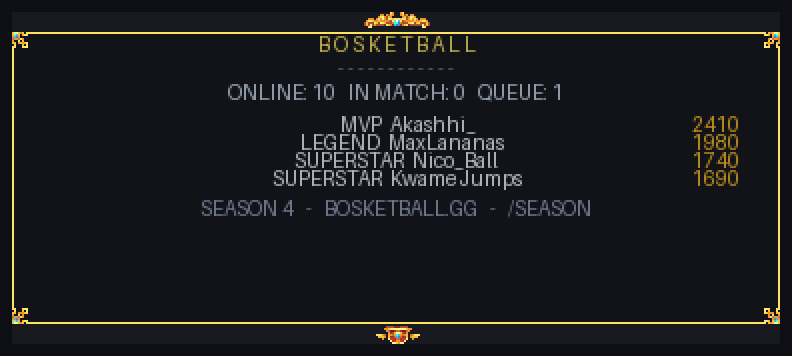
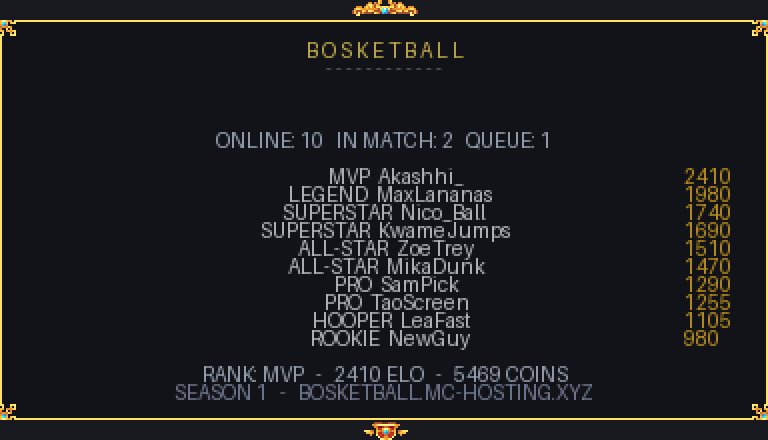
Round 28: tablist preview follows the real 9 px line grid

Changed region(s): [[0.0, 0.0, 1.0, 1.0]]

diff --git a/tools/preview_tablist.py b/tools/preview_tablist.py
@@ -1,11 +1,17 @@
 #!/usr/bin/env python3
-"""Render the tab list backdrop so it can be reviewed without launching the game.
+"""Preview of the in-game tab list, drawn from the same geometry the plugin uses.
 
-The frame comes from the owner's `tablist.zip` (nine-sliced by `tools/tablist_frame.py`); the rows
-below are a mock of what the plugin writes: one glyph line for the frame, then the header block,
-the player rows and the footer, all centred like the client centres them.
+Round 28: the frame is generated per player count (139 px for one row, +9 px per row). This preview
+lays the header, the rows and the footer on the client's 9 px line grid so the picture shows exactly
+how tight the gold frame is around the content:
 
-    python3 tools/preview_tablist.py        # docs/previews/tablist.png
+    line 1        frame glyph (nothing else)
+    lines 2..6    BOSKETBALL logo strip
+    line 8        ONLINE / IN MATCH / QUEUE counters
+    line 10 + i   player row i (one 9 px line each)
+    then          footer: rank line + season/site line
+
+    python3 tools/preview_tablist.py
 """
 
 from __future__ import annotations
@@ -18,9 +24,9 @@ ROOT = Path(__file__).resolve().parent.parent
 FONT_DIR = ROOT / "resourcepack/assets/bosketball/textures/font"
 OUT = ROOT / "docs/previews/tablist.png"
 SCALE = 2
-ROWS = 4
-# Round 28: the frame is generated per player count, so the preview uses the real 4-row one.
-FRAME = FONT_DIR / "tab_frame_r04.png"
+ROWS = 10
+LINE = 9
+FRAME = FONT_DIR / f"tab_frame_r{ROWS:02d}.png"
 NAMES = [
     ("MVP", "Akashhi_", "2410"),
     ("LEGEND", "MaxLananas", "1980"),
@@ -34,11 +40,17 @@ NAMES = [
     ("ROOKIE", "NewGuy", "980"),
 ]
 
+# content anchors, in client pixels, relative to the top of the frame glyph
+LOGO_LINE = 2          # first logo strip line
+COUNTERS_LINE = 7      # 0-based line index -> 8th line
+FIRST_ROW_LINE = 9     # 0-based -> 10th line (measured on the owner's screenshot)
+
 
 def main() -> int:
     frame = Image.open(FRAME).convert("RGBA")
     w, h = frame.size
-    canvas = Image.new("RGBA", (w, h), (24, 26, 32, 255))
+    canvas = Image.new("RGBA", (w * SCALE, h * SCALE), (24, 26, 32, 255))
+    canvas = canvas.resize((w, h), Image.NEAREST)
     d = ImageDraw.Draw(canvas)
     try:
         font = ImageFont.load_default()
@@ -51,34 +63,28 @@ def main() -> int:
         tw = d.textlength(text, font=font)
         d.text(((w - tw) / 2, y), text, fill=fill, font=font)
 
-    # the client draws the header first: frame line, logo block, then the live counters
-    y = 10
-    centered("B O S K E T B A L L", y, (255, 226, 97))
-    y += 12
-    centered("- - - - - - - - - - - -", y, (120, 132, 158))
-    y += 12
-    centered("ONLINE: 10   IN MATCH: 0   QUEUE: 1", y, (200, 214, 235))
-    y += 16
+    def line_top(index: int) -> int:
+        return LINE * index + 1
 
-    for tag, name, elo in NAMES[:ROWS]:
-        left = tag.rjust(9)
-        centered(f"{left}  {name}", y, (240, 244, 252))
+    centered("B O S K E T B A L L", line_top(LOGO_LINE), (255, 226, 97))
+    centered("- - - - - - - - - - - -", line_top(LOGO_LINE + 1), (120, 132, 158))
+    centered("ONLINE: 10   IN MATCH: 2   QUEUE: 1", line_top(COUNTERS_LINE), (200, 214, 235))
+
+    for i, (tag, name, elo) in enumerate(NAMES[:ROWS]):
+        y = line_top(FIRST_ROW_LINE + i)
+        centered(f"{tag.rjust(9)}  {name}", y, (240, 244, 252))
         if font is not None:
-            d.text((w - 44, y), elo, fill=(251, 191, 36), font=font)
-        y += 9
+            d.text((w - 42, y), elo, fill=(251, 191, 36), font=font)
 
-    y += 6
-    centered("SEASON 4   -   BOSKETBALL.GG   -   /SEASON", y, (150, 160, 190))
+    footer_line = FIRST_ROW_LINE + ROWS + 1
+    centered("RANK: MVP   -   2410 ELO   -   5469 COINS", line_top(footer_line), (200, 214, 235))
+    centered("SEASON 1   -   BOSKETBALL.MC-HOSTING.XYZ", line_top(footer_line + 1), (150, 160, 190))
 
     # the client paints the header (and therefore our frame) AFTER the rows: composite it last so the
     # preview shows the same 25% backdrop over the names that players see
     canvas.alpha_composite(frame, (0, 0))
-
-    sheet = Image.new("RGBA", (w * SCALE + 24, h * SCALE + 24), (14, 15, 20, 255))
-    sheet.alpha_composite(canvas.resize((w * SCALE, h * SCALE), Image.NEAREST), (12, 12))
-    OUT.parent.mkdir(parents=True, exist_ok=True)
-    sheet.save(OUT)
-    print("tablist ->", OUT.relative_to(ROOT), sheet.size)
+    canvas.resize((w * SCALE, h * SCALE), Image.NEAREST).save(OUT)
+    print(f"tablist -> {OUT.relative_to(ROOT)} ({w * SCALE}, {h * SCALE})  frame {w}x{h} for {ROWS} rows")
     return 0
 
 
